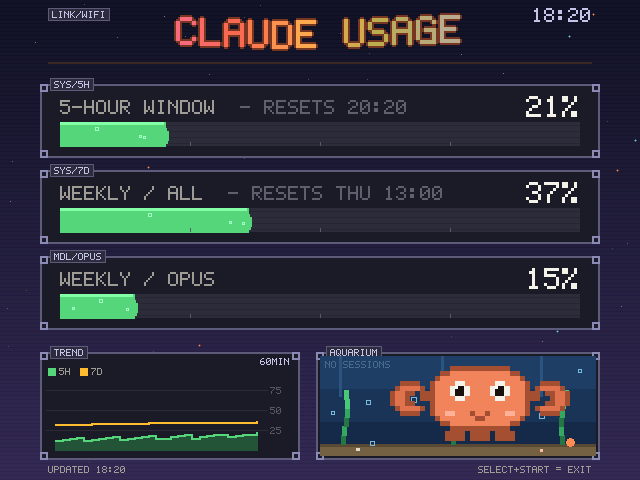
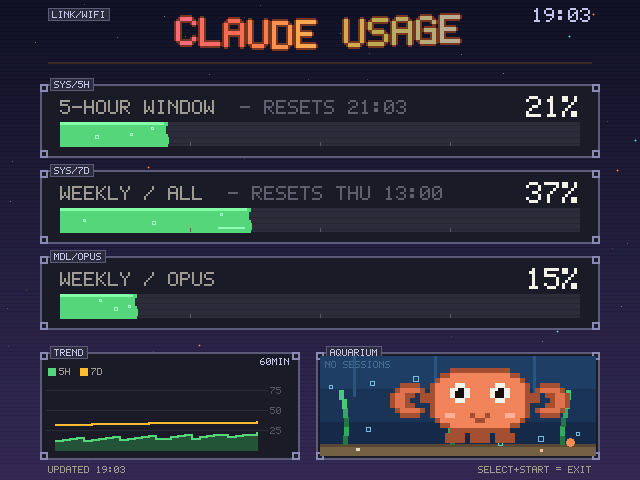
Keep the tank pets off Clawd's face

diff --git a/device/clawd.py b/device/clawd.py
@@ -705,6 +705,7 @@ class Clawd:
         self.stick_until = 0     # joystick control active
         self.forced_mood = None  # (mood, until) via d-pad showcase
         self.force_sleep_until = 0
+        self.avoid = []          # friend centres he tries not to stand behind
         self.throw_until = 0     # claws up, launching the tank friends
         self._bag = []           # quips dealt without replacement
         self._bag_of = 0
@@ -787,6 +788,23 @@ class Clawd:
         else:
             self.jump_until = time.time() + 0.6
 
+    def pick_spot(self, xmin, xmax):
+        """A roam target that keeps the shell out from under the session
+        signs: friends draw in FRONT of Clawd (seeing every session is the
+        point of the tank), so him standing behind one puts a pet on his
+        face. Of a handful of random candidates, take the one whose body
+        centre lands farthest from the nearest friend. A crowded tank can't
+        avoid overlap - then this just picks the least-bad spot."""
+        if not self.avoid:
+            return random.uniform(xmin, xmax)
+
+        def clearance(x):
+            c = x + 10 * self.sc      # body spans x-8*sc .. x+28*sc
+            return min(abs(c - a) for a in self.avoid)
+
+        return max((random.uniform(xmin, xmax) for _ in range(8)),
+                   key=clearance)
+
     def update(self, xmin, xmax, idle_for):
         t = time.time()
         if t > self.next_blink:
@@ -796,7 +814,7 @@ class Clawd:
             self.pupil = (random.randint(-2, 2), random.randint(-1, 1))
             self.next_look = t + random.uniform(1.5, 4)
         if t > self.next_move and t > self.dance_until:
-            self.tx = random.uniform(xmin, xmax)
+            self.tx = self.pick_spot(xmin, xmax)
             self.next_move = t + random.uniform(30, 55)
         if idle_for > 8 and t > self.next_auto and not self.sleeping:
             self.auto_show()
@@ -971,10 +989,15 @@ CLAWD_SCALE = {0: 5, 1: 4, 2: 4, 3: 3, 4: 3, 5: 3}
 
 def friend_layout(n):
     """Evenly spaced centres across the water, plus the character budget for
-    each sign so they don't collide at the tighter spacings."""
+    each sign so they don't collide at the tighter spacings. One or two
+    friends keep to the left half, so Clawd has a bay of his own on the
+    right instead of standing behind somebody's sign (friends draw in front
+    of him, and a pet parked on his face reads as a glitch)."""
     if n <= 0:
         return [], 10
     x0, x1 = AQ_IN_X0 + 6, AQ_IN_X1 - 6
+    if n <= 2:
+        x1 = x0 + (x1 - x0) // 2
     pitch = (x1 - x0) / float(n)
     centres = [int(x0 + pitch * (i + 0.5)) for i in range(n)]
     # a sign is len(label) * 6 + 8 pixels wide, and must fit inside the pitch
@@ -2009,6 +2032,7 @@ def run(scr, evs, held, last_input, clawd, friends, shown,
         # one friend per active Claude Code project, sized and spaced to fit
         info = parse_sessions(d)
         if PETS and info != [(f.session, f.count, f.busy) for f in friends]:
+            first_layout = not friends
             centres, maxlen = friend_layout(len(info))
             friends[:] = [
                 Friend(None, centres[i], FRIEND_FLOOR, name, count, busy, maxlen)
@@ -2017,7 +2041,12 @@ def run(scr, evs, held, last_input, clawd, friends, shown,
             clawd.sc = CLAWD_SCALE.get(len(info), 3)
             lo, hi = clawd_bounds(clawd.sc)
             clawd.x = min(max(clawd.x, lo), hi)
-            clawd.tx = clawd.x
+            # ...and walks clear of the new signs instead of standing behind
+            # one. On the very first layout he just starts clear.
+            clawd.avoid = centres
+            clawd.tx = clawd.pick_spot(lo, hi)
+            if first_layout:
+                clawd.x = clawd.tx
         clawd_lo, clawd_hi = clawd_bounds(clawd.sc)
         for fr in friends:
             fr.update(345, 575)
